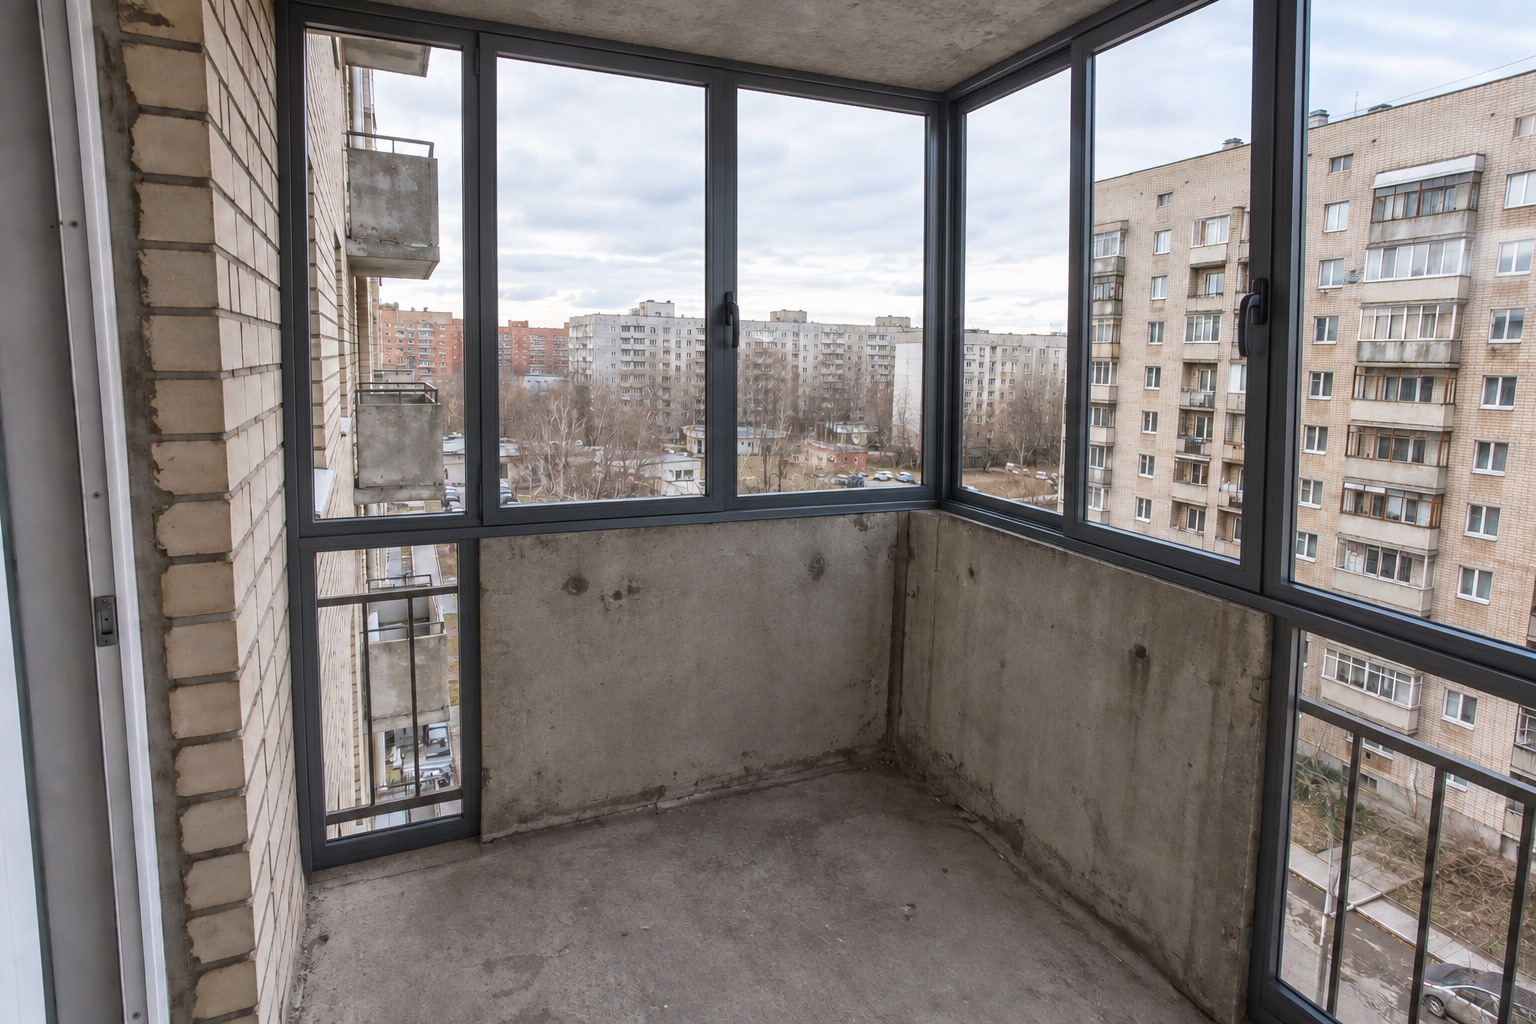
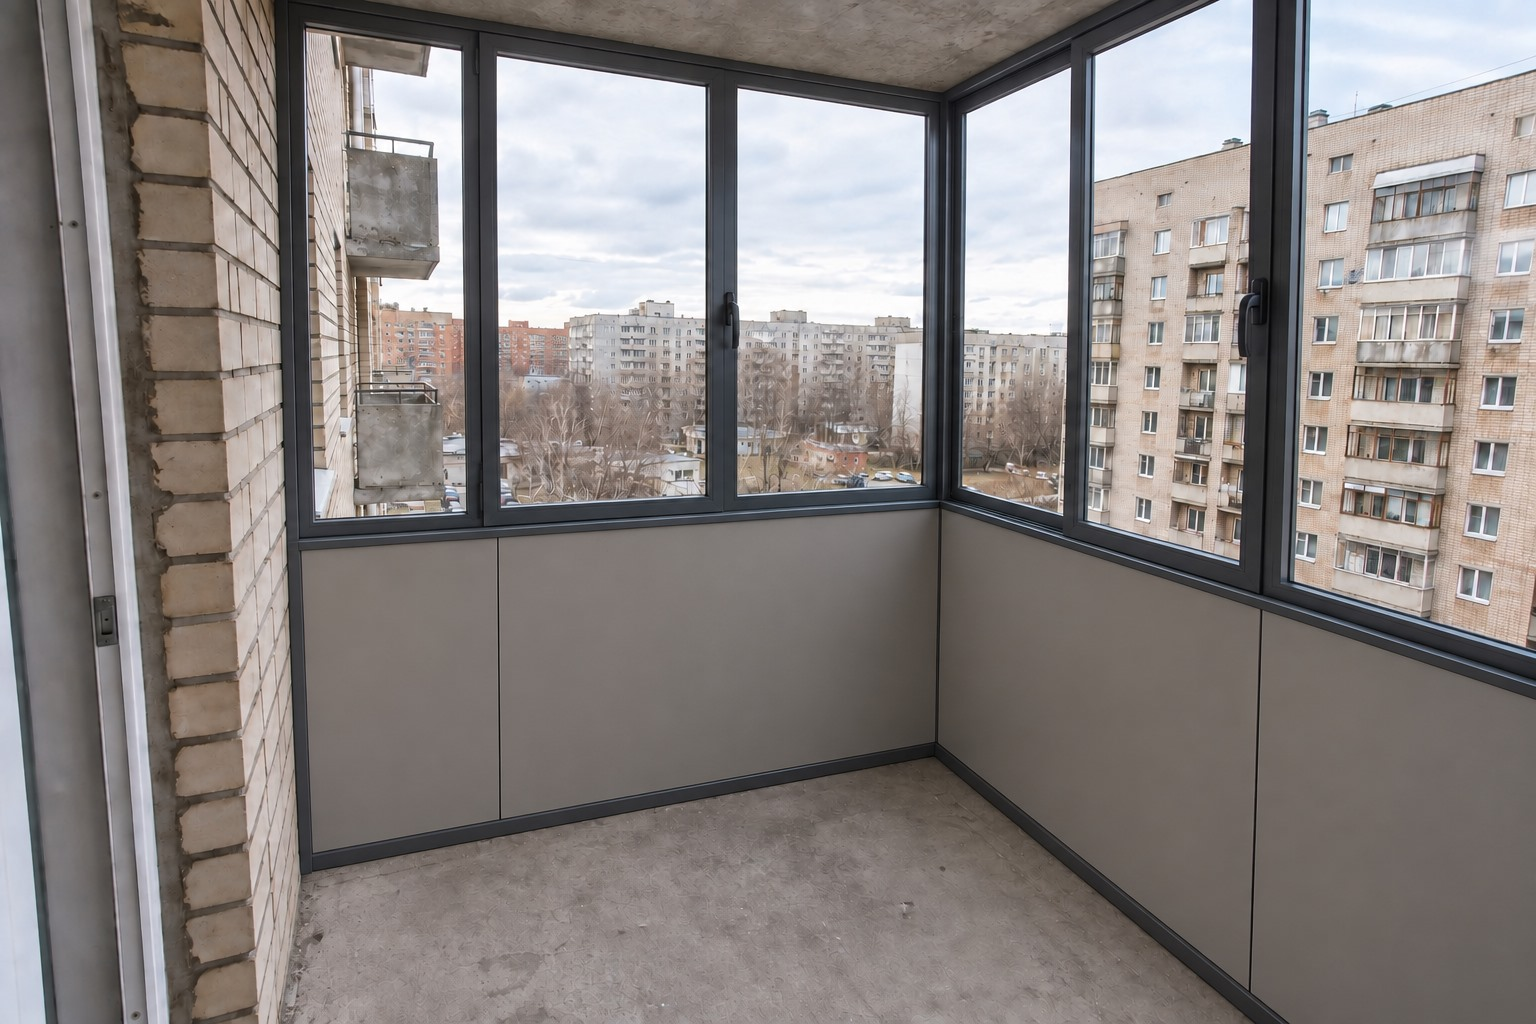
1

diff --git a/public/styles-extra.css b/public/styles-extra.css
@@ -1971,6 +1971,11 @@ h1,h2,h3,h4,
  width:100%;
  text-align:center!important;
 }
+@media(min-width:641px){
+ .landing-hero .landing-copy{
+  transform:translateY(-40px);
+ }
+}
 @media(max-width:640px){
  .home-page .hero>.hero-content>.hero-description,
  .landing-hero .landing-copy>.hero-description{
@@ -2784,4 +2789,57 @@ main .eyebrow{display:none!important}
  .home-page .hero.container{
   grid-template-columns:minmax(0,1fr) minmax(0,1fr);
  }
+}
+
+/* A consistent lightweight icon system for primary actions, contacts and proof points. */
+.ui-icon{display:block;flex:0 0 auto}
+.button-icon{width:18px;height:18px}
+.button-label{display:inline-block}
+.header-cta .button-icon{width:15px;height:15px}
+.header-contact .phone,
+.mobile-menu-phone{display:inline-flex;align-items:center;justify-content:center;gap:7px}
+.phone-link-icon{width:15px;height:15px;color:var(--teal)}
+.trust-strip .trust-item,
+.landing-trust .trust-item{
+ display:grid;
+ grid-template-columns:48px minmax(0,1fr);
+ align-items:center;
+ justify-content:start;
+ gap:14px;
+ text-align:left;
+}
+.trust-icon{
+ width:48px;
+ height:48px;
+ padding:11px;
+ border-radius:50%;
+ background:var(--teal-soft);
+ color:var(--teal);
+}
+.trust-copy{display:flex;min-width:0;flex-direction:column;align-items:flex-start;gap:4px}
+.trust-strip .trust-copy strong,
+.landing-trust .trust-copy strong{
+ min-height:0;
+ justify-content:flex-start;
+ text-align:left;
+}
+.trust-strip .trust-copy span,
+.landing-trust .trust-copy span{
+ width:auto;
+ text-align:left;
+}
+@media(max-width:640px){
+ .button-icon{width:17px;height:17px}
+ .trust-strip .trust-item,
+ .landing-trust .trust-item{
+  grid-template-columns:32px minmax(0,1fr);
+  gap:6px;
+  padding-inline:7px!important;
+ }
+ .trust-icon{width:32px;height:32px;padding:7px}
+ .trust-copy{gap:2px}
+ .trust-strip .trust-copy strong,
+ .landing-trust .trust-copy strong{font-size:18px}
+ .trust-strip .trust-copy span,
+ .landing-trust .trust-copy span{font-size:9px;line-height:1.3}
 }
